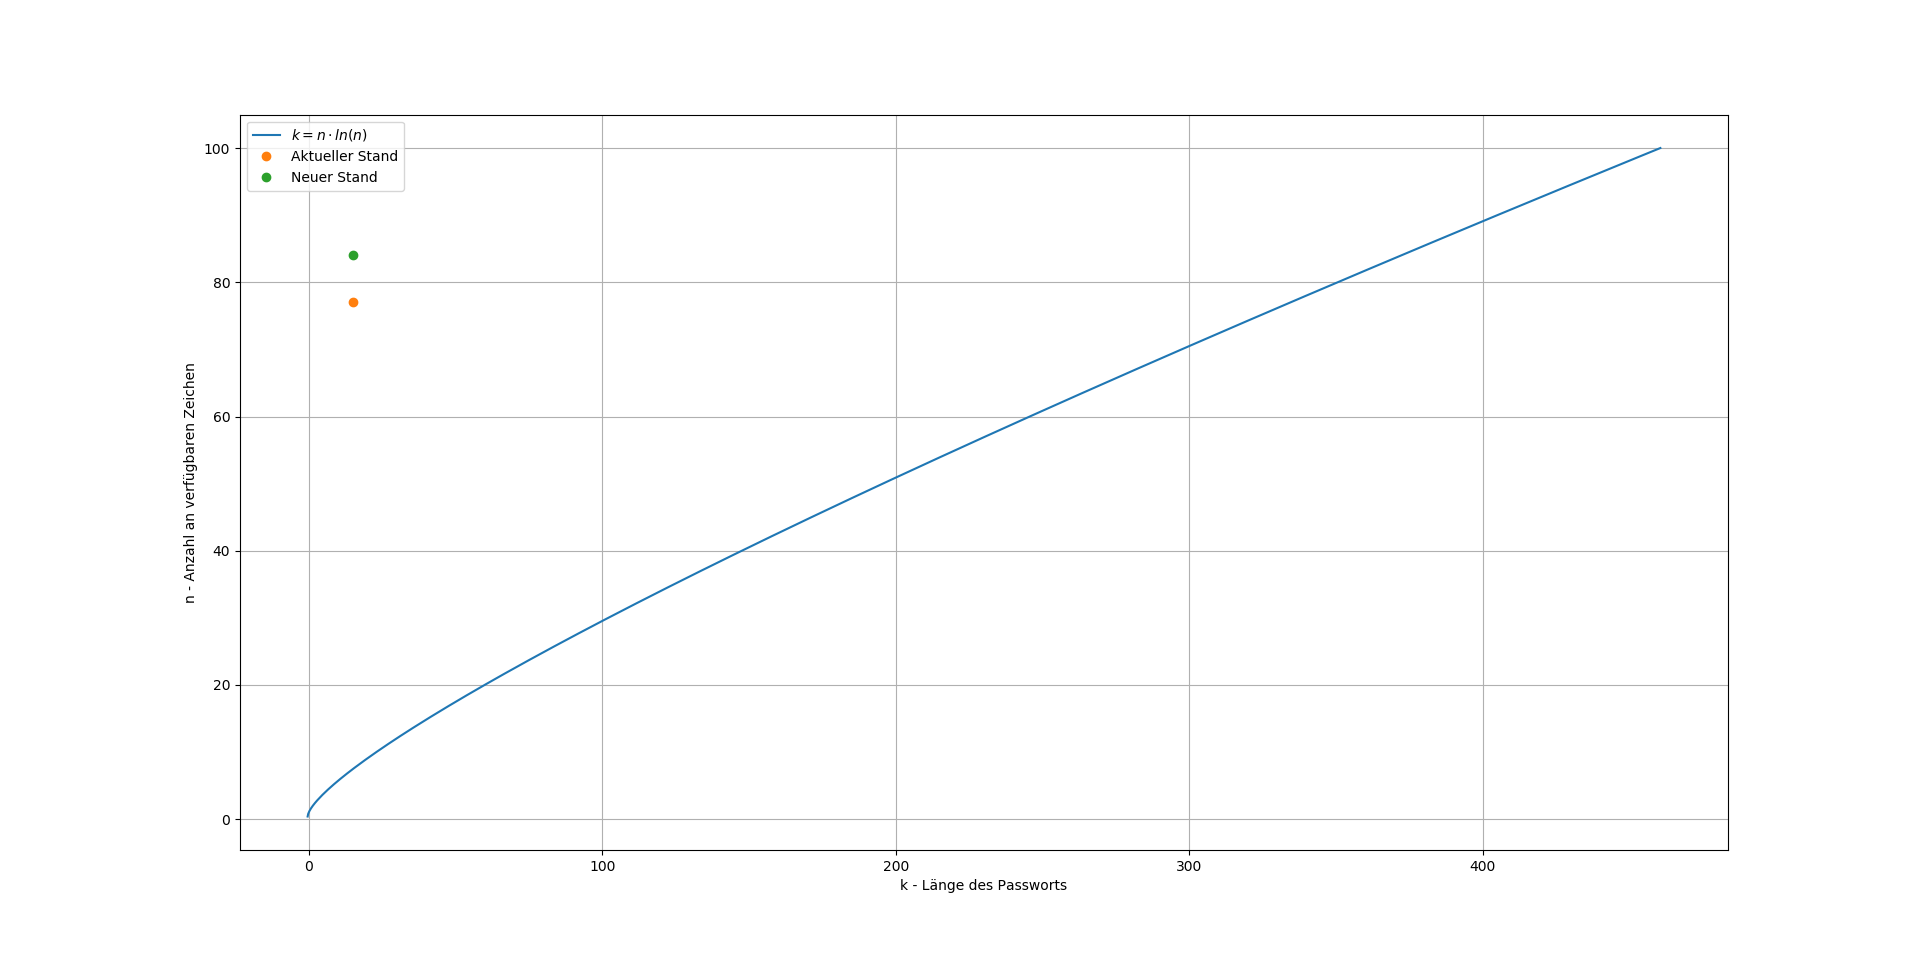
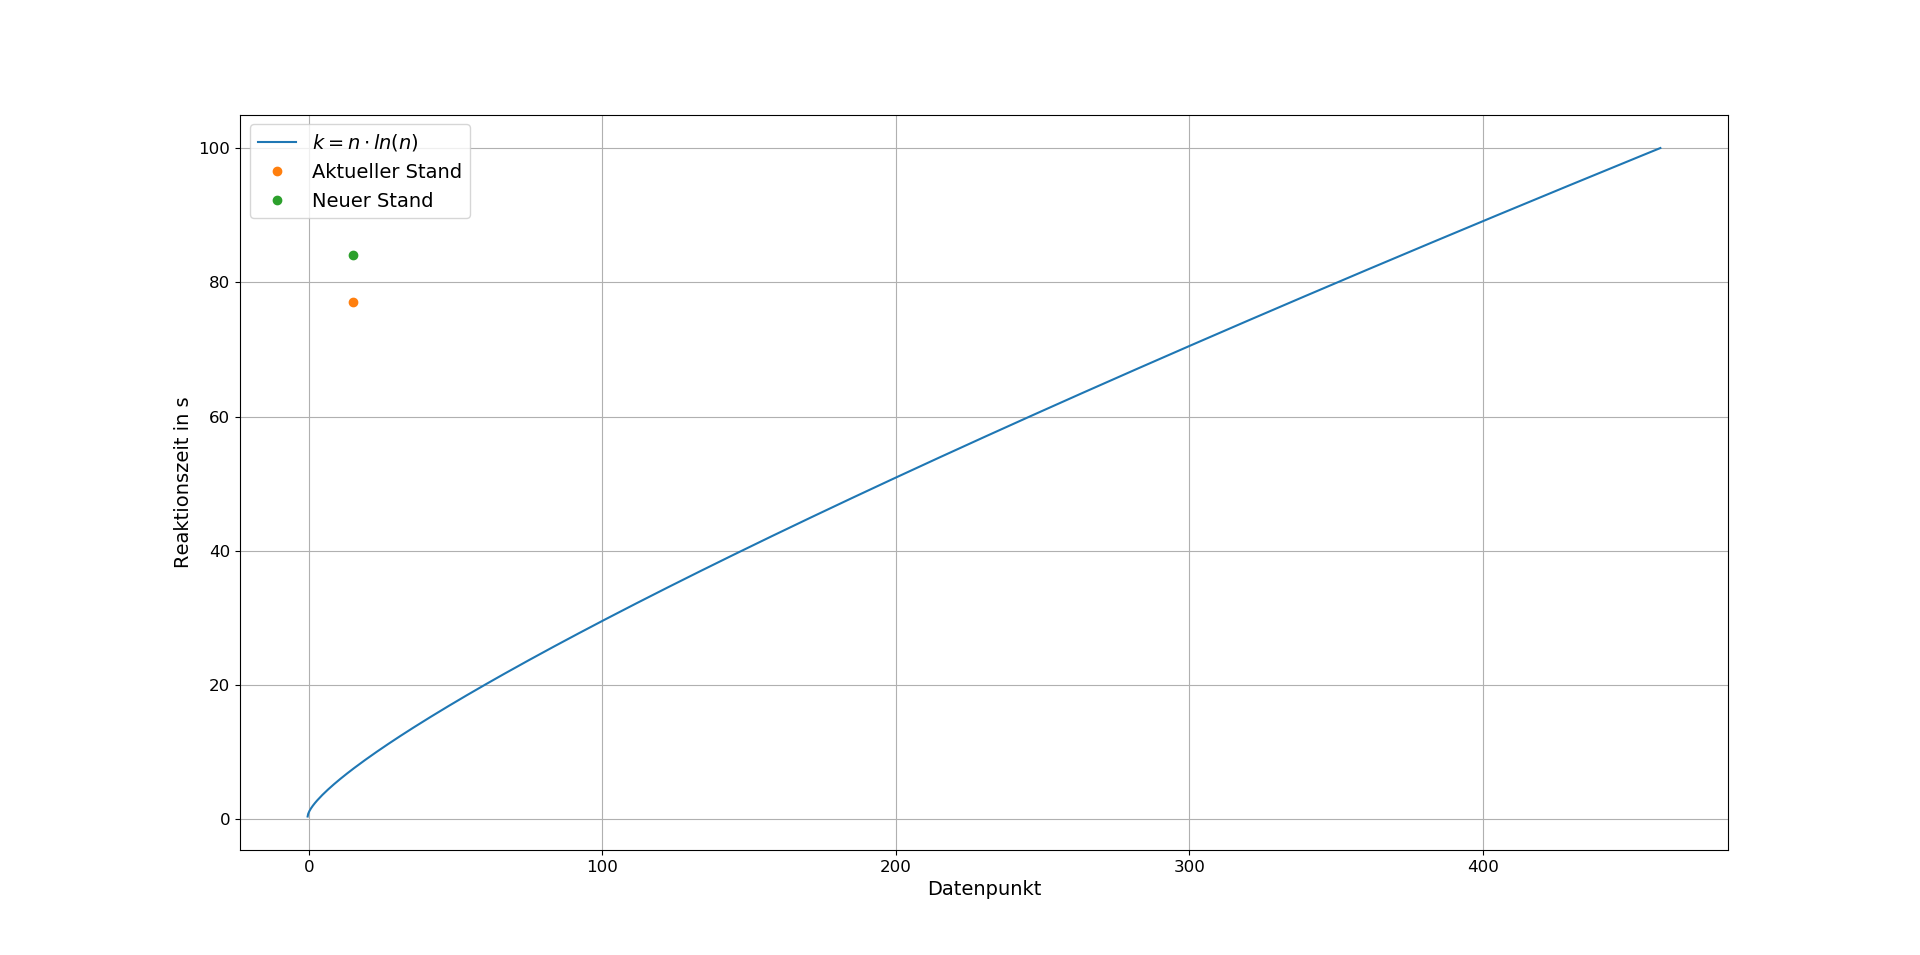
Increased font-size, should be fine now

diff --git a/TUInventory/Documentation/Bilder/Passwort-Varianten-Graph.py b/TUInventory/Documentation/Bilder/Passwort-Varianten-Graph.py
@@ -11,7 +11,11 @@ plt.plot((15,), (77,), "o", label="Aktueller Stand")
 plt.plot((15,), (84,), "o", label="Neuer Stand")
 plt.xlabel("k - Länge des Passworts")
 plt.ylabel("n - Anzahl an verfügbaren Zeichen")
-plt.legend()
+plt.tick_params(axis='both', which='major', labelsize=12)
+plt.tick_params(axis='both', which='minor', labelsize=12)
+plt.xlabel("Datenpunkt", fontsize=14)
+plt.ylabel("Reaktionszeit in s", fontsize=14)
+plt.legend(prop={'size': 14})
 plt.grid()
 plt.show()
 ####
@@ -23,9 +27,11 @@ k = k(n)
 plt.plot(n, k, label=r"$k = n \cdot ln(n)$")
 plt.plot((77,), (15,), "o", label="Aktueller Stand")
 plt.plot((84,), (15,), "o", label="Neuer Stand")
-plt.ylabel("k - Länge des Passworts")
-plt.xlabel("n - Anzahl an verfügbaren Zeichen")
-plt.legend()
+plt.ylabel("k - Länge des Passworts", fontsize=14)
+plt.xlabel("n - Anzahl an verfügbaren Zeichen", fontsize=14)
+plt.tick_params(axis='both', which='major', labelsize=12)
+plt.tick_params(axis='both', which='minor', labelsize=12)
+plt.legend(prop={'size': 14})
 plt.grid()
 plt.show()
 
@@ -42,10 +48,12 @@ for i, j in enumerate(range_):
     plt.subplot(len(range_), 1, i+1).set_title(f"i = {j}")
     plt.semilogy(k, df_dn, label=r"$f_1 = \frac {\partial f} {\partial n} = k \cdot n ^{k-1} $")
     plt.semilogy(k, df_dk, label=r"$f_2 = \frac {\partial f} {\partial k} = n^k \cdot ln(n)$")
-    plt.xlabel("k/n")
-    plt.ylabel(r"$f_1(k) / f_2(n)$")
+    plt.xlabel("k/n", fontsize=14)
+    plt.ylabel(r"$f_1(k) / f_2(n)$", fontsize=14)
     plt.grid()
-    plt.legend()
+    plt.tick_params(axis='both', which='major', labelsize=12)
+    plt.tick_params(axis='both', which='minor', labelsize=12)
+    plt.legend(prop={'size': 14})
 
 plt.show()
 
@@ -66,9 +74,11 @@ f = [[0 if i > 0 else 255 for i in row] for row in f]
 
 print(np.shape(f))
 plt.imshow(f, cmap="Greys", interpolation="quadric", origin="lower")
-plt.xlabel("k")
-plt.ylabel("n")
+plt.xlabel("k", fontsize=14)
+plt.ylabel("n", fontsize=14)
 plt.xticks([i*k_i/k_max for i in range(0, k_max+1, 5)], [str(i) for i in range(0, k_max+1, 5)])
 plt.yticks([i*n_i/n_max for i in range(0, n_max+1, 5)], [str(i) for i in range(0, n_max+1, 5)])
+plt.tick_params(axis='both', which='major', labelsize=12)
+plt.tick_params(axis='both', which='minor', labelsize=12)
 plt.grid()
 plt.show()
